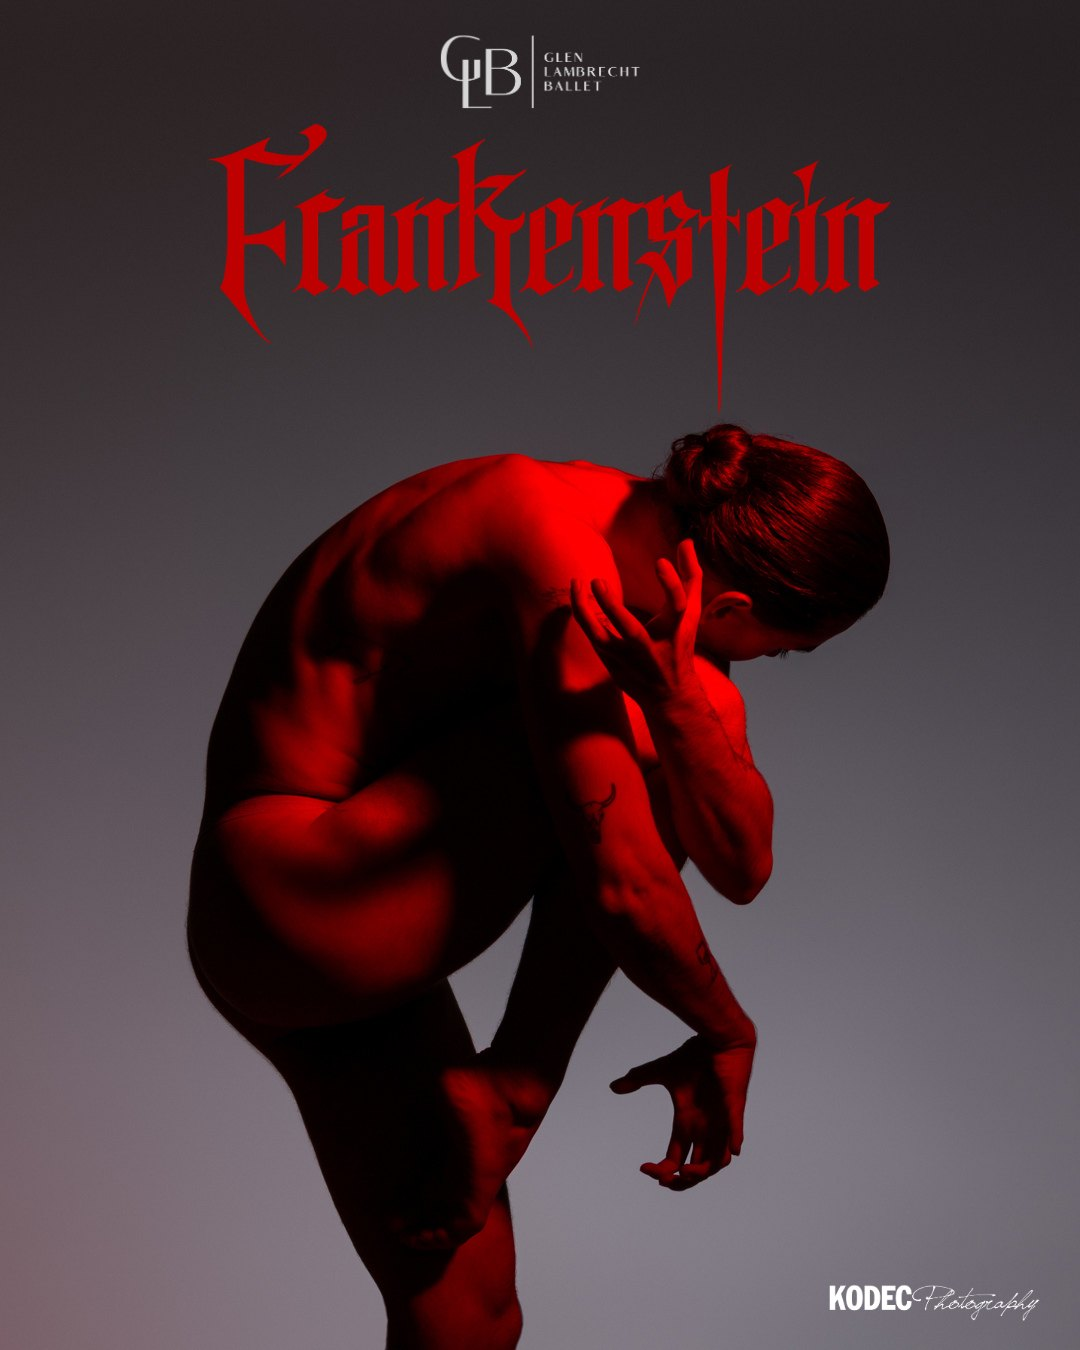
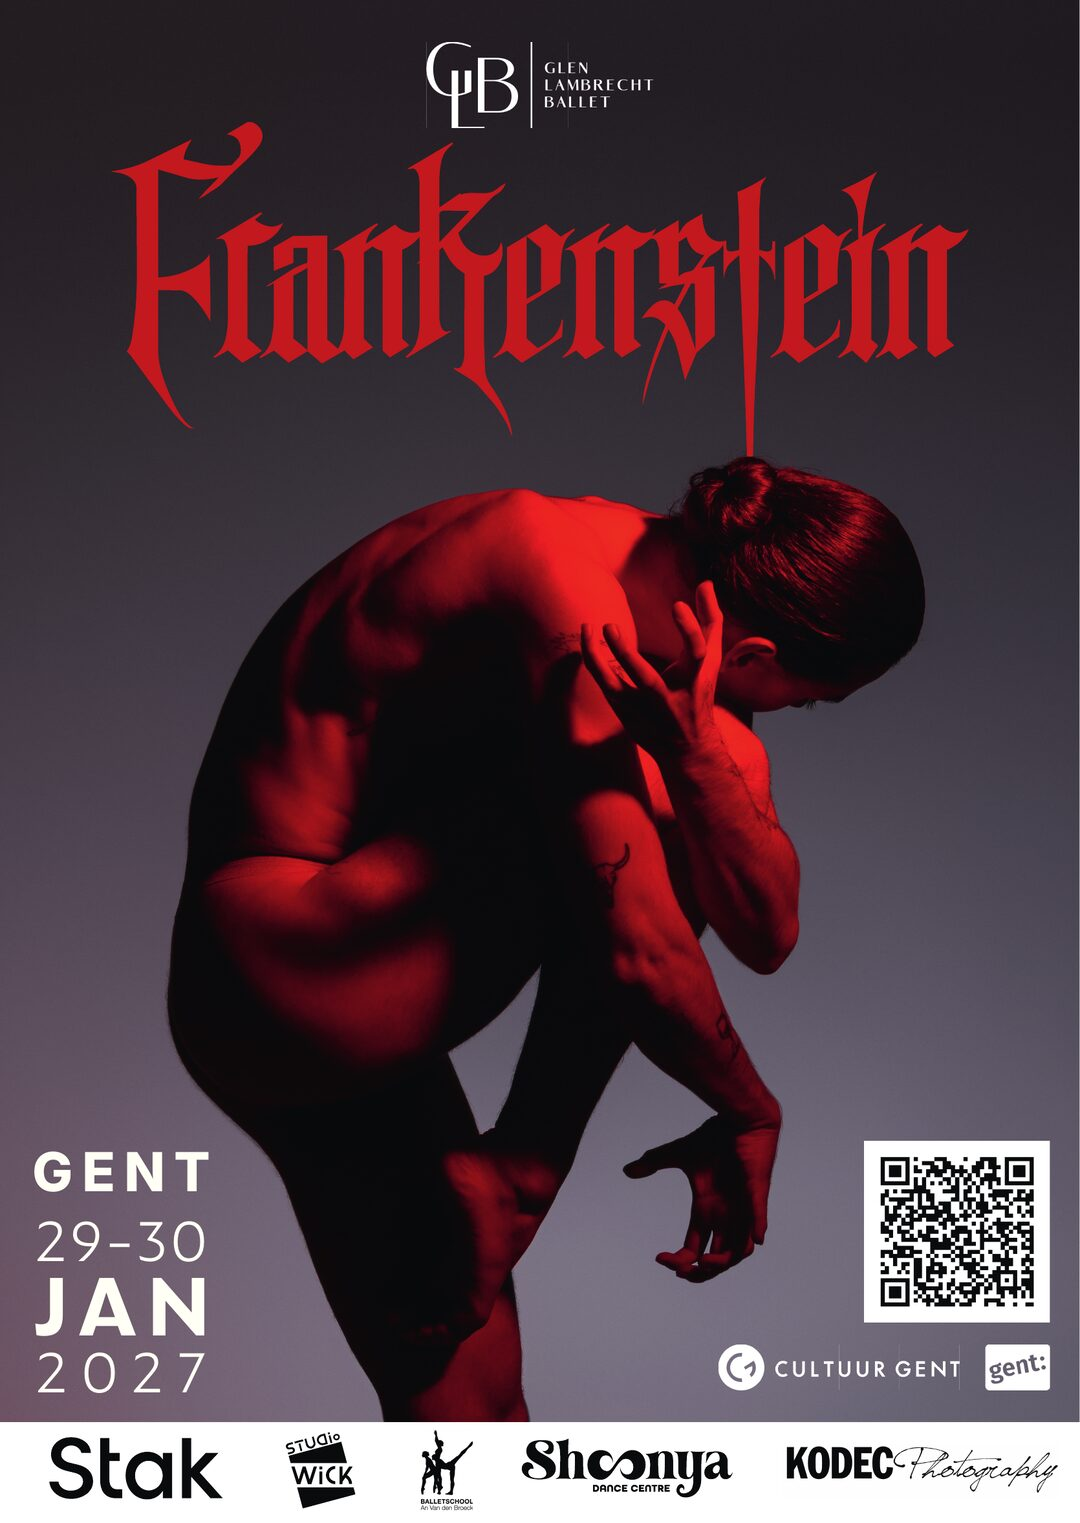
Frankenstein: final poster (V3 from Tono, 11 Nov) + tickets on sale from Fri 13 Nov 10:00

diff --git a/frankenstein/nl/index.html b/frankenstein/nl/index.html
@@ -43,7 +43,7 @@
 <main id="main">
   <section class="hero">
     <div class="hero-art">
-      <img src="../assets/poster.jpg" width="1080" height="1350" alt="Affiche van Frankenstein, Glen Lambrecht Ballet: een danser in rood licht."/>
+      <img src="../assets/poster.jpg" width="1080" height="1523" alt="Affiche van Frankenstein, Glen Lambrecht Ballet: een danser in rood licht."/>
     </div>
     <div>
       <p class="eyebrow">Glen Lambrecht Ballet</p>
@@ -53,7 +53,7 @@
         <div class="show"><b>Vrijdag · 20:00</b><span>29 januari 2027</span></div>
         <div class="show"><b>Zaterdag · 20:00</b><span>30 januari 2027</span></div>
       </div>
-      <p class="soon"><strong>Tickets binnenkort te koop.</strong></p>
+      <p class="soon"><strong>Tickets te koop vanaf vrijdag 13 november, 10:00.</strong></p>
     </div>
   </section>
 
@@ -69,7 +69,7 @@
       <dt>Duur</dt><dd>60 minuten</dd>
       <dt>Dansers</dt><dd>Tono Ferriol en Glen Lambrecht (Glen Lambrecht Ballet)</dd>
       <dt>Waar</dt><dd>Shoonya Theatre, Shoonya Dance Centre, Stapelplein 41, 9000 Gent (station Gent-Dampoort)</dd>
-      <dt>Tickets</dt><dd>Binnenkort te koop, hier op deze pagina.</dd>
+      <dt>Tickets</dt><dd>Te koop vanaf vrijdag 13 november 2026 om 10:00, hier op deze pagina.</dd>
     </dl>
     <p class="credit">Foto &copy; Koen De Clerck / Kodec Photography</p>
   </section>

diff --git a/frankenstein/index.html b/frankenstein/index.html
@@ -77,7 +77,7 @@
 <main id="main">
   <section class="hero">
     <div class="hero-art">
-      <img src="assets/poster.jpg" width="1080" height="1350" alt="Frankenstein poster, Glen Lambrecht Ballet: a dancer bathed in red light."/>
+      <img src="assets/poster.jpg" width="1080" height="1523" alt="Frankenstein poster, Glen Lambrecht Ballet: a dancer bathed in red light."/>
     </div>
     <div>
       <p class="eyebrow">Glen Lambrecht Ballet</p>
@@ -87,7 +87,7 @@
         <div class="show"><b>Friday · 20:00</b><span>29 January 2027</span></div>
         <div class="show"><b>Saturday · 20:00</b><span>30 January 2027</span></div>
       </div>
-      <p class="soon"><strong>Tickets on sale soon.</strong></p>
+      <p class="soon"><strong>Tickets on sale from Friday 13 November, 10:00.</strong></p>
     </div>
   </section>
 
@@ -103,7 +103,7 @@
       <dt>Running time</dt><dd>60 minutes</dd>
       <dt>Danced by</dt><dd>Tono Ferriol and Glen Lambrecht (Glen Lambrecht Ballet)</dd>
       <dt>Where</dt><dd>Shoonya Theatre, Shoonya Dance Centre, Stapelplein 41, 9000 Gent (Gent-Dampoort station)</dd>
-      <dt>Tickets</dt><dd>On sale soon, here on this page.</dd>
+      <dt>Tickets</dt><dd>On sale from Friday 13 November 2026 at 10:00, here on this page.</dd>
     </dl>
     <p class="credit">Photo &copy; Koen De Clerck / Kodec Photography</p>
   </section>
